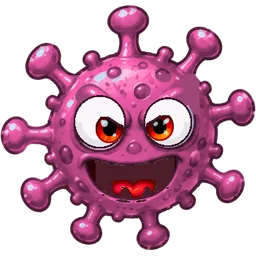
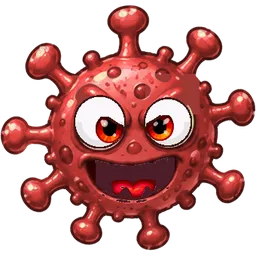
feat(ns4-44): red and yellow viruses, sources moved to art/virusler

diff --git a/src/virus/art.ts b/src/virus/art.ts
@@ -7,8 +7,8 @@
 import { context2d, loadImage, shade } from '../rendering/textures';
 
 export const CAPSULE_COLORS = [0xe05a9c, 0x9b7fd0, 0x2fb8ad, 0xf2a07b] as const;
-/** Görüntü yüklenmeden önce virüs hücresinin yedek rengi (tür 0 yeşil, 1 pembe, 2 bordo). */
-export const VIRUS_FALLBACK = [0x3fae5f, 0xd85597, 0xa8326e] as const;
+/** Görüntü yüklenmeden önce virüs hücresinin yedek rengi (tür 0 yeşil, 1 kırmızı, 2 sarı). */
+export const VIRUS_FALLBACK = [0x3fae5f, 0xd93a3a, 0xf2c230] as const;
 export const VIRUS_ART_URLS = [1, 2, 3].map((n) => `${import.meta.env.BASE_URL}images/virus/virus-${n}.webp`);
 
 const hex = (c: number) => '#' + c.toString(16).padStart(6, '0');

diff --git a/tests/virus/assets.test.ts b/tests/virus/assets.test.ts
@@ -20,3 +20,12 @@ describe('virüs görselleri', () => {
     });
   }
 });
+
+describe('kaynak görseller', () => {
+  it("public/ altında değil (build'e girmez); art/virusler içinde", () => {
+    const pub = import.meta.glob('../../public/images/virüsler/*');
+    const src = import.meta.glob('../../art/virusler/*.png');
+    expect(Object.keys(pub)).toEqual([]);
+    expect(Object.keys(src)).toHaveLength(3);
+  });
+});

diff --git a/tools/viruses/prepare_viruses.py b/tools/viruses/prepare_viruses.py
@@ -19,7 +19,7 @@ from scipy import ndimage
 from scipy.spatial import Delaunay
 
 ROOT = Path(__file__).resolve().parents[2]
-SRC = ROOT / "public" / "images" / "virüsler"
+SRC = ROOT / "art" / "virusler"  # kullanıcının kaynak görselleri (build'e girmez)
 OUT = ROOT / "public" / "images" / "virus"
 SIZE = 256
 
@@ -27,8 +27,9 @@ SIZE = 256
 VIRUSES = [
     # tek gözlü virüs: kullanıcı isteğiyle (2026-11-10) yeşil kalır; limon/sarı-yeşil değil, temiz yaprak yeşili
     {"src": "bacteria.png", "hue": 128.0, "sat": 0.58, "val": 0.92, "brows": False, "green": True, "fill_mouth": True},
-    {"src": "bacteria2.png", "hue": 328.0, "sat": 0.62, "val": 1.0, "brows": True, "fill_mouth": True},  # pembe
-    {"src": "bacteria3.png", "hue": 336.0, "sat": 0.66, "val": 0.74, "brows": False},  # bordo
+    # NS4-44 ek (2026-11-11): kırmızı ve sarı (kullanıcı isteği); sarı canlı güneş sarısı, yeşilimsi değil
+    {"src": "bacteria2.png", "hue": 2.0, "sat": 0.74, "val": 1.0, "brows": True, "fill_mouth": True},  # kırmızı
+    {"src": "bacteria3.png", "hue": 46.0, "sat": 0.8, "val": 1.08, "brows": False},  # sarı
 ]
 
 GREEN = (50.0, 175.0)  # yeşil-sarı ton aralığı (boyanacak gövde)

diff --git a/docs/superpowers/plans/2026-11-10-virus-avi.md b/docs/superpowers/plans/2026-11-10-virus-avi.md
@@ -277,3 +277,42 @@
 - [ ] **Step 2:** `npm run check` → typecheck, lint, format:check, test, build hepsi temiz.
 - [ ] **Step 3: Tarayıcı** — `npx vite --port 5199`; 390×844, 844×390, 1366×768, 1920×1080'de: ilk giriş öğreticisi (tamamla ve atla), ikinci girişte öğretici yok, bölüm geçişi, süre bitimi, `__fn.virus.level(20)` ile final, mola/devam, yön değişimi, hareketi azalt, klasik moda dönüş ve klasik oyunun bozulmadığı bir tur; konsol hatası yok. Ekran görüntüleri scratchpad'e. 5199 kapatılır.
 - [ ] **Step 4: Commit** `docs(ns4-44): virus mode report, inventory and roadmap`
+
+---
+
+## Ek görevler (spec §11, 2026-11-11)
+
+Aynı Global Constraints geçerli. Her görev TDD + ilgili testler + commit. Prettier yalnızca değişen dosyalara.
+
+### Task 12: Kaynakların taşınması ve yeni renkler
+- `public/images/virüsler/*` → `art/virusler/` (commit). `prepare_viruses.py` `SRC` güncellenir. `virus-2` kırmızı (ton 0–4°), `virus-3` sarı (ton ~48°, yüksek parlaklık). `VIRUS_FALLBACK` = yeşil, kırmızı, sarı.
+- Test: `tests/virus/assets.test.ts` + yeni: `public/images/virüsler` yok.
+
+### Task 13: Kollu bacaklı virüs kareleri (ONAY 4)
+- Betik her tür için 6 kare üretir (`virus-{n}-sheet.webp`, yatay şerit, kare 192 px; gövde karenin ~%74'ü): 0–3 dans (kol yukarı/aşağı, bacak adımı), 4 göz kırpma, 5 irkilme (sıkışma + gözler kapalı). Göz bölgeleri betikteki göz maskesinden.
+- `art.ts`: `VIRUS_FRAMES = 6`, `VIRUS_DANCE = [0,1,2,3]`, `virusFrame(t: number, phase: number, blink: boolean): number`.
+- `VirusView`: virüs hücreleri kare dokusu; her virüs kendi fazında dans eder, rastgele aralıkla göz kırpar; silinmeden önce irkilme karesi. Hareketi azaltta kare 0 sabit, göz kırpma kalır.
+- Lens: aynı şerit, CSS `steps()` dansı; `is-flinch` → kare 5.
+- Test: `virusFrame` saf fonksiyon (döngü, kırpma, azaltılmış hareket), şerit dosyaları var ve < 120 KB.
+
+### Task 14: Öğretici otomatik geçiş
+- `AUTO_MS = { selam: 4000, lens: 5000 }`; zamanlayıcı mola/devamda durur/sürer. Devam butonu kalır.
+- Test: `vi.advanceTimersByTime` ile selam → kapsul ve lens → bitiş; mola sırasında geçmez.
+
+### Task 15: Bir sıra indirme
+- `VirusGame.softDrop` setter: false→true geçişinde hemen `softStep()` (tam 1 sıra); basılı: `SOFT_DELAY_MS = 170` sonra her `SOFT_REPEAT_MS = 70`'te 1 sıra. Normal yerçekimi sürer.
+- Test: bas-bırak (≤ 100 ms) = tam 1 sıra; 170 + 3×70 ms basılı = 1 + 3 sıra; klasik `Game.softDrop` değişmez.
+
+### Task 16: Yerleşim, beher ve Elif + damlalık (ONAY 5)
+- `hud.ts`: yatayda `#stats` sol sütun üstüne (`L.hold.y`), lens altına: `lensRect` = `{ x: L.stats.x, y: L.hold.y + L.stats.h + 12, w: L.stats.w, h: min(L.stats.w, board alt − y) }`. Mod değişince yeniden yerleşim (`router` → `relayout`).
+- `#virus-beaker` (DOM SVG, `#under`): behere benzeyen çerçeve (cam duvar, yuvarlak alt köşeler, sol üstte ağız çıkıntısı, sağda ölçü çizgileri, parlama); `#virus-dropper`: tahtanın üst ortasında damlalık (düğme/hazne + uç), yeni kapsülde `is-squeeze` (220 ms).
+- `#virus-elif-side`: yatayda sağ sütunda kartın altı, portrede alt şerit solu. Pozlar: bekle (yeni poz: iki kol aşağı), bas (goster), alkis (bölüm sonu), oops + titreme (son 15 sn). Öğretici açıkken gizli.
+- `elif.ts`: yeni poz `bekle`.
+- Test: `lensRect` yatay/portre, `#virus-beaker/#virus-dropper/#virus-elif-side` klasik modda gizli, spawn → `is-squeeze`, Elif poz seçimi saf fonksiyon `sideElifPose(state)`.
+
+### Task 17: Virüs Avı müziği
+- `music.ts`: `MusicKind` + `'virus'`; `TRACKS.virus` (Sol majör, 126 bpm, yoğun melodi), kendi akor dizisi, her ölçüde zıplayan bas + 8'lik arpej + hafif davul; `hurry` (son 15 sn) +12 bpm. Bu modda süzgeç kapalı (`setCongestion(0)`).
+- Test: `planBar({kind:'virus'})` davul/arp/melodi üretir, `tempoFor('virus', …, hurry)` artar; `Sound.setMusic('virus')` çalışır.
+
+### Task 18: Belgeler ve doğrulama
+- `docs/NS4-44-VIRUS-AVI.md` §9 "Oyun denemesi sonrası", YOL-HARITASI; `npm run check` (EOL notu), tarayıcı 4 boyut.

diff --git a/docs/superpowers/specs/2026-11-10-virus-avi-design.md b/docs/superpowers/specs/2026-11-10-virus-avi-design.md
@@ -145,3 +145,18 @@ Aşağıdaki sayılar başlangıç değeridir; oyun denemesinden sonra kullanıc
 - Arayüz: menü butonu, HUD gizleme/gösterme, skor ayrımı, global panelin gizlenmesi, içerik güvenliği ve envanter.
 - Klasik mod: bütün mevcut testler değişmeden geçer.
 - Tarayıcı: 390×844, 844×390, 1366×768, 1920×1080; klavye ve dokunma; mola/devam; yeniden boyutlandırma; hareketi azalt; konsol hatası yok.
+
+## 11. Ek: oyun denemesi sonrası değişiklikler (2026-11-11, kullanıcı onayı)
+
+Kullanıcı modu denedikten sonra şunları istedi. Belli bir oyunun kendine özgü görüntüsü (ilaç şişesi tahta, doktorun kenardan hap fırlatması, o oyunun virüs dansı) birebir kopyalanmaz; aşağıdaki özgün karşılıklar kullanıcıyla kararlaştırıldı.
+
+- **Virüs renkleri:** yeşil (tek gözlü, aynı), **kırmızı** (`virus-2`), **sarı** (`virus-3`). Sarı canlı güneş sarısı; sümüğü çağrıştıran yeşilimsi-sarı değil. Ağız içleri koyu bordo.
+- **Animasyonlu virüsler:** kullanıcının görsellerine küçük kollar ve bacaklar eklenir (`tools/viruses` betiği, kare kare çizim). Sağa sola sallanır, kol/bacak sallar; bazı karelerde yüz tepkisi (göz kırpma, irkilme). Tahtada ve lenste aynı kareler. **Onay noktası 4.**
+- **Öğretici:** "Devam" zorunlu değil. Selam ve lens adımları okuma süresinden sonra kendiliğinden geçer (selam 4 sn, lens 5 sn); buton hızlı geçmek için durur.
+- **Yerleşim:** bilgisayar/yatayda sol sütun: üstte skor kartı, altında lens. Portrede lens üst şeritte kalır.
+- **Tahta çerçevesi (A):** ağzı açık, ölçü çizgili **laboratuvar beheri**. Oyun alanı (10 × 20) aynı; yalnızca çerçeve/süs değişir. **Onay noktası 5.**
+- **Doktor Elif ve damlalık:** Elif tahtanın yanında durur (yatayda sağ sütunun altında, portrede alt şeritte). Tahtanın üst ortasında bir damlalık vardır; her yeni kapsülde Elif düğmeye basar (poz + damlalık sıkışır), kapsül oradan düşer. Bölüm temizlenince sevinir (alkış), son 15 saniyede telaşlanır (oops + titreme). Öğretici açıkken yan Elif gizlenir (kartta zaten var). Onay noktası 5'te birlikte gösterilir.
+- **Müzik:** bu moda özel özgün, hareketli bir parça (sentez, oyunun tarzında). Son 15 saniyede hızlanır. Bu modda tıkanıklık süzgeci (boğuk ses) uygulanmaz.
+- **Kapsülü indirme:** ↓ bir kez = tam bir sıra; basılı tutunca kısa bekleme sonrası sabit hızla sıra sıra. Klasik mod etkilenmez.
+- **Oyun sonu:** Elif oyun sonu ekranında kalır (kullanıcı kararı); sağlık bağlantısıyla eşleşmesi hukuk listesinde.
+- **Kaynak görseller** `art/virusler/` klasörüne taşınır ve commit edilir (build'e girmez).
